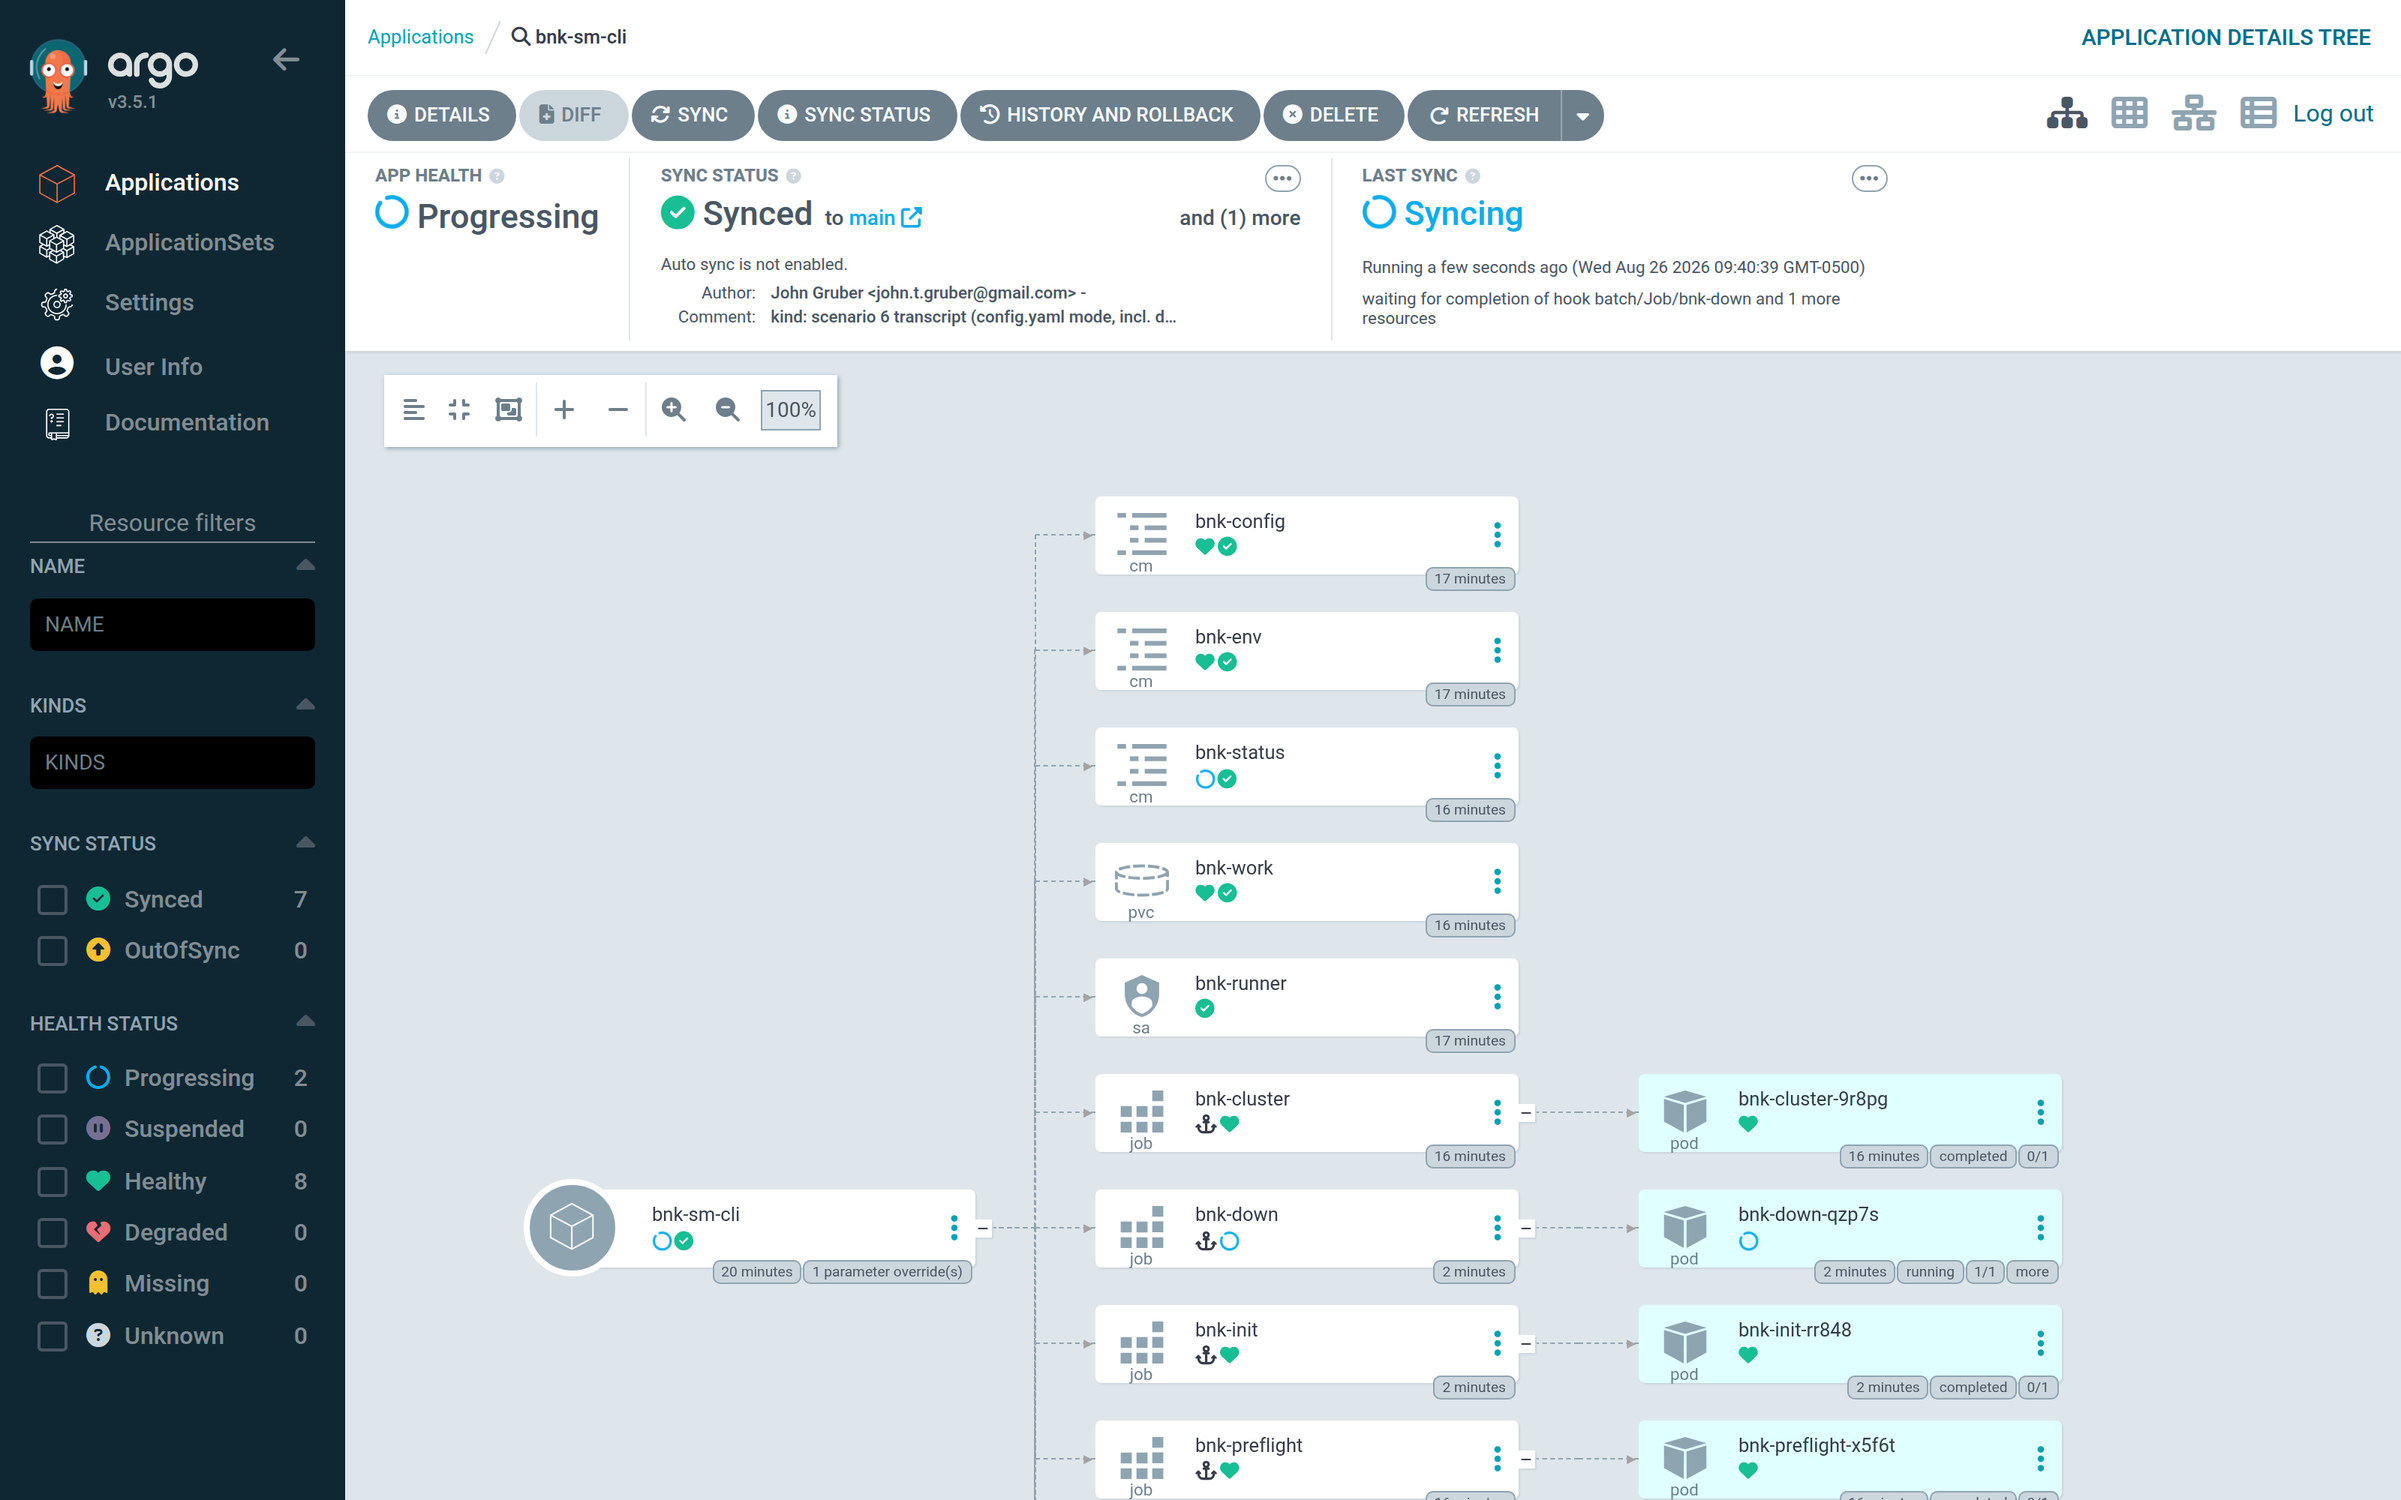
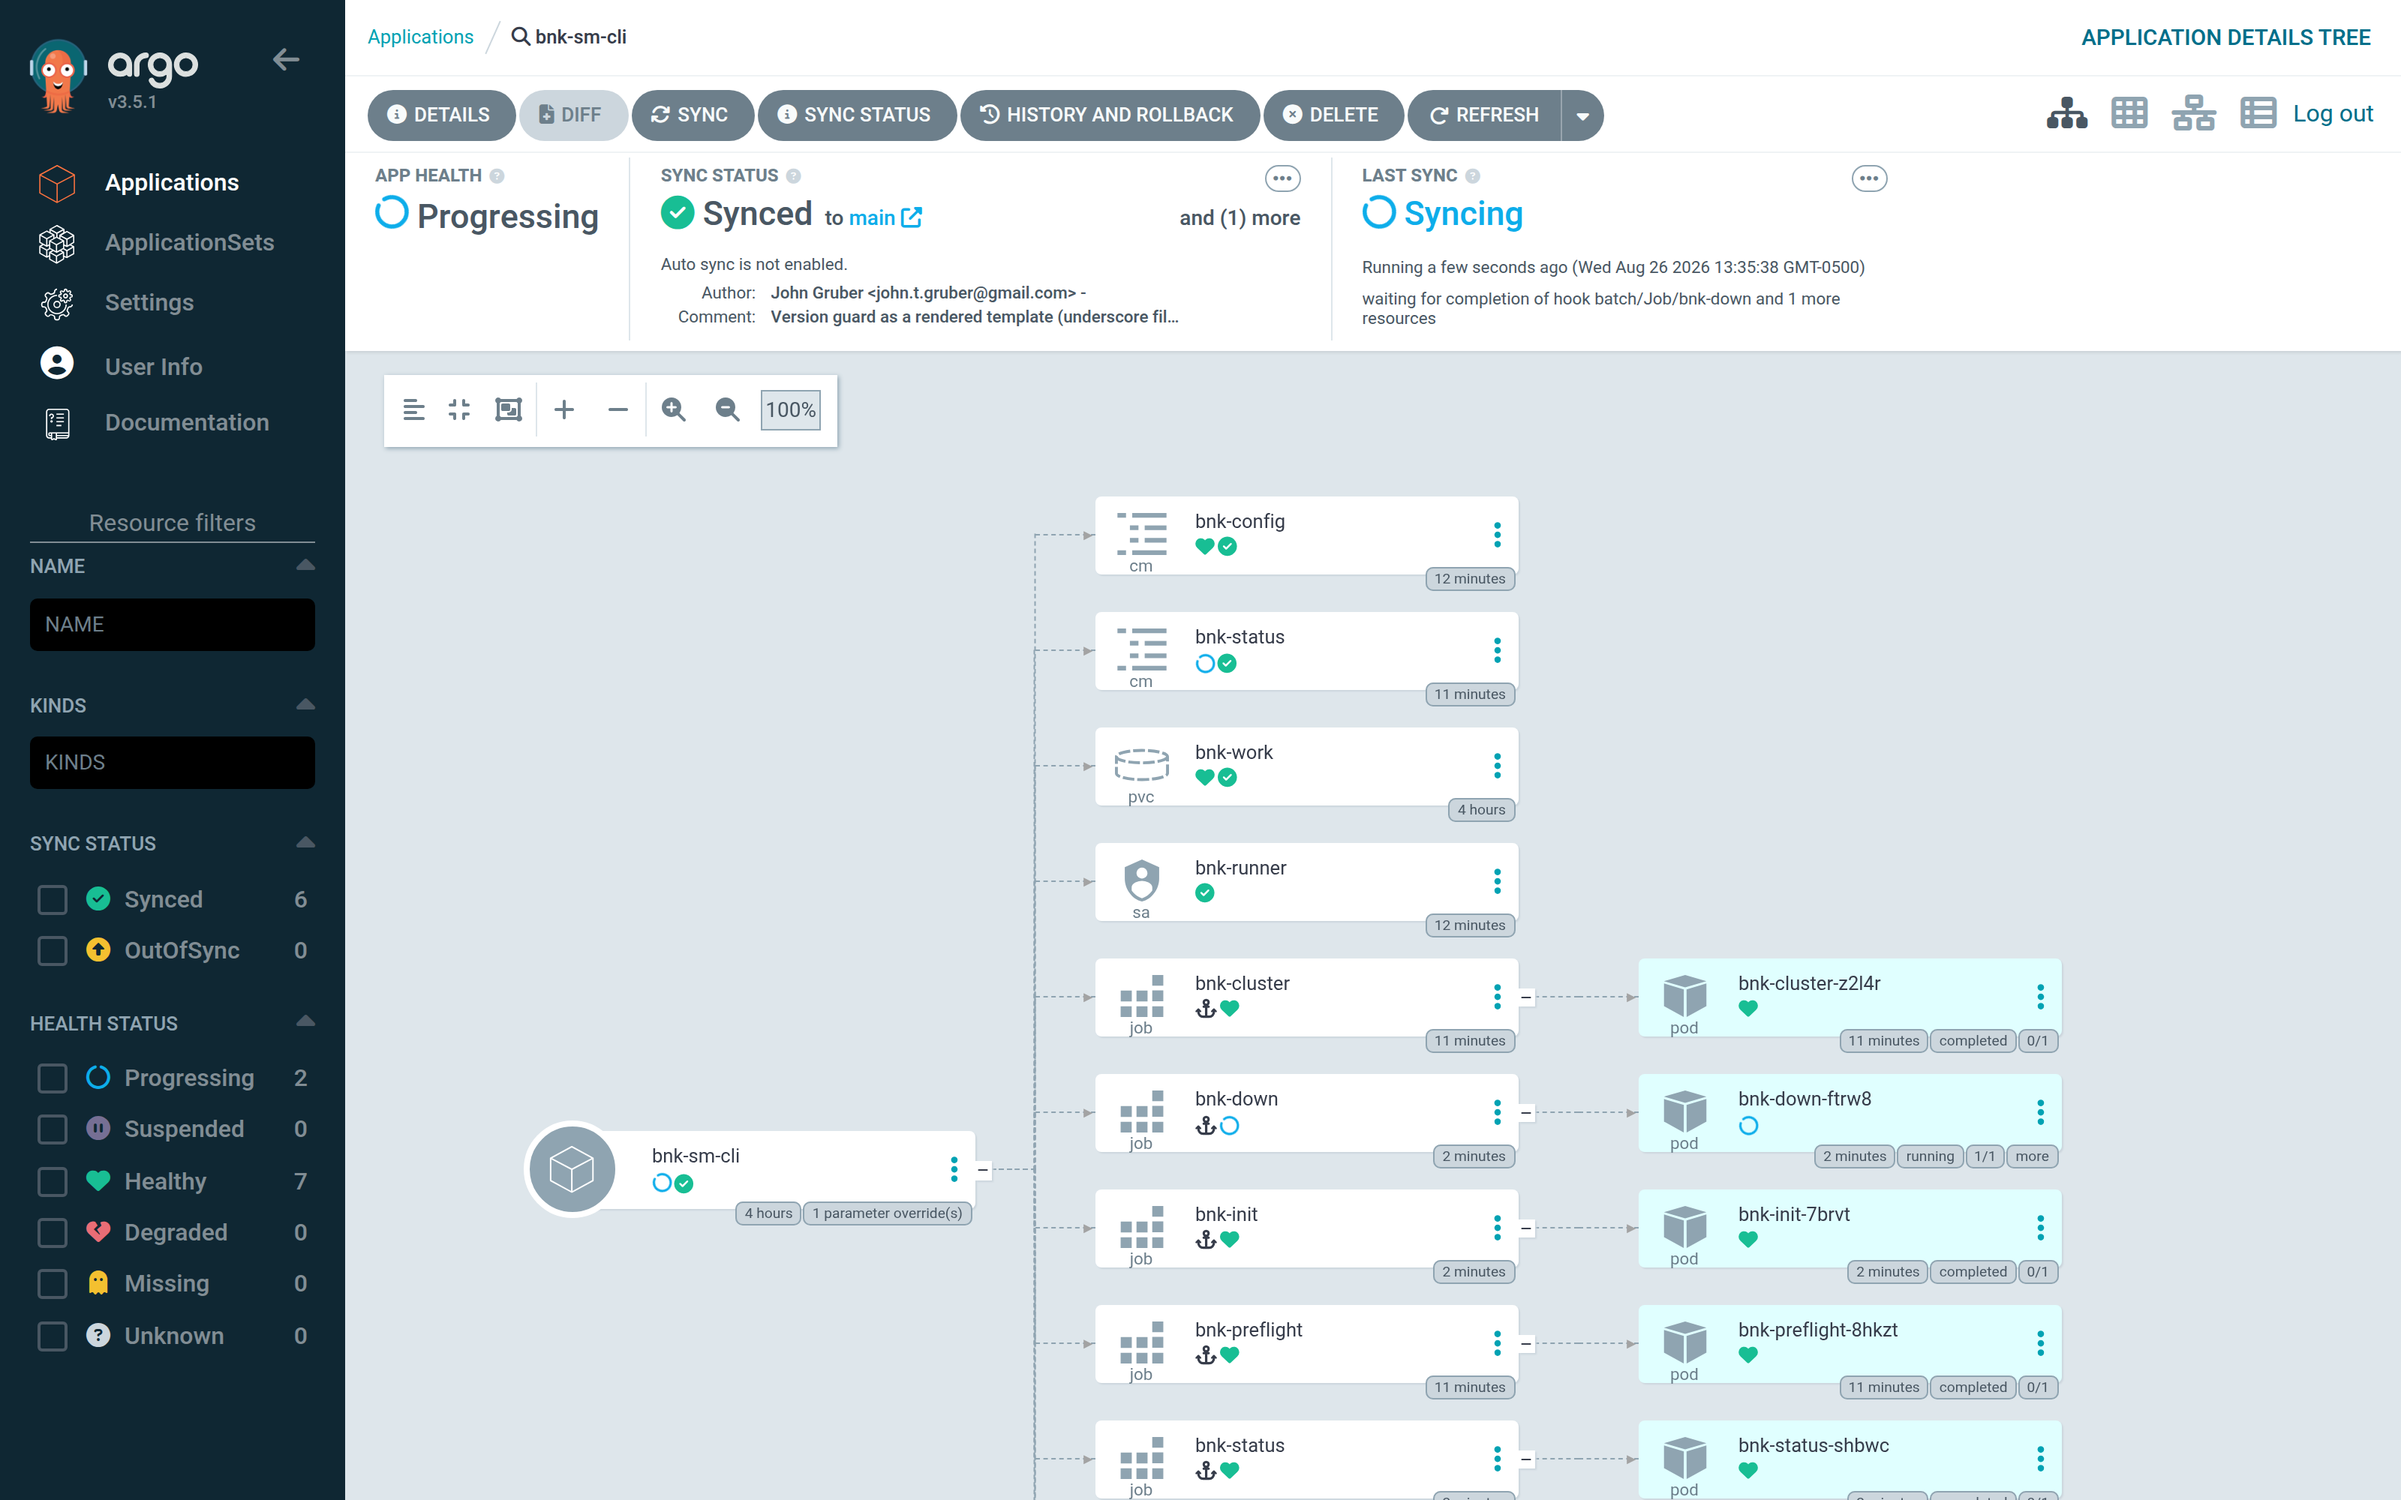
sm-cli-mirror: private registry (Artifactory) + external F5 License Proxy workspace
- registry.adoptArgs (e.g. --verify-contents) appended to registry adopt
- preflight accepts the FLP hand-off from config.bnk.flp.external
- apps/overlays/sm-cli-mirror + Application (replaces the bnkdisco placeholder)

Claude-Session: https://claude.ai/code/session_013dz6ug5kXKb94iL9fYSWhs

diff --git a/book/src/14-hooks-reference.md b/book/src/14-hooks-reference.md
@@ -13,7 +13,7 @@ failed hook is never retried silently — you re-sync).
 | `bnk-init` | Sync / −4 | `roksbnkctl init -w $WS --config-file /config/config.yaml --override-from-env` (the file, then the Secret on top) · `roksbnkctl version` · `roksbnkctl -w $WS doctor` | `init` |
 | `bnk-cluster` | Sync / −3 | `cluster register <config.cluster.name> --registry-cos-name …` **or** `cluster up --auto` (`config.cluster.create: true`), then `kubeconfig --download` | `cluster` |
 | `bnk-flp` | Sync / −3 | `flp up --auto` · `flp status` (only with `flp.deploy: true`) | `flp` |
-| `bnk-registry` | Sync / −2 | `registry adopt` **or** `registry target` · `bom` · `replicate --target …` · `verify` (only when `registry.mode ≠ none`) | `registry` |
+| `bnk-registry` | Sync / −2 | `registry adopt [registry.adoptArgs]` **or** `registry target` · `bom` · `replicate --target …` · `verify` (only when `registry.mode ≠ none`) | `registry` |
 | `bnk-preflight` | Sync / −1 | shell replica of the workspace-file guards, then `bnk status --json` | `preflight` |
 | `bnk-up` / `bnk-down` | Sync / 0 | `bnk up --auto` **or** `bnk down --auto`; writes `bnk-status` running → succeeded/failed | `apply` / `down` |
 | `bnk-status` | PostSync / 0 | `bnk status --json` → `bnk-status`; `bnk status` (human) | `status` |

diff --git a/book/src/13-values-reference.md b/book/src/13-values-reference.md
@@ -50,6 +50,7 @@ including the admin kubeconfig it fetches.
 |---|---|---|
 | `registry.mode` | derived | `adopt` when `config.registry` names a mirror (`bnk-registry` runs `registry adopt`), else `none` (pull from FAR). Set `replicate` when the pod can reach FAR and should populate the mirror itself. |
 | `registry.target` | `generic` | `icr` or `generic` (only when `mode` ≠ `none`). |
+| `registry.adoptArgs` | `""` | Extra flags for `registry adopt`: `--verify-contents` builds the BOM from the FAR source and digest-checks every artifact in the mirror before recording it (the record then carries the inventory); `--force` records a mirror whose catalogue cannot be listed. |
 
 The mirror itself — host, repository prefix, username, CA — is described in
 `config.registry` (roksbnkctl's schema); the password lives in `bnk-secrets`.
